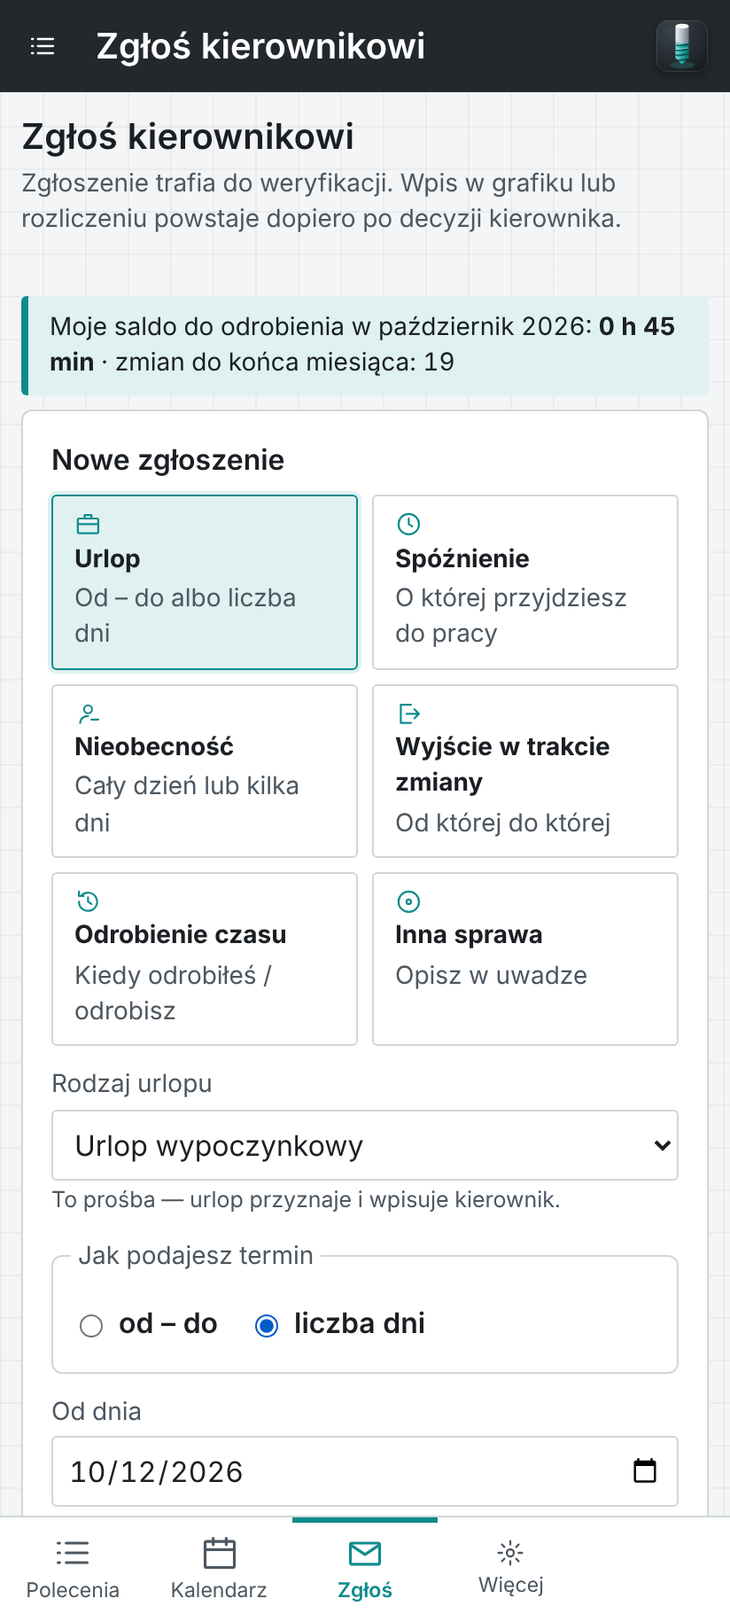
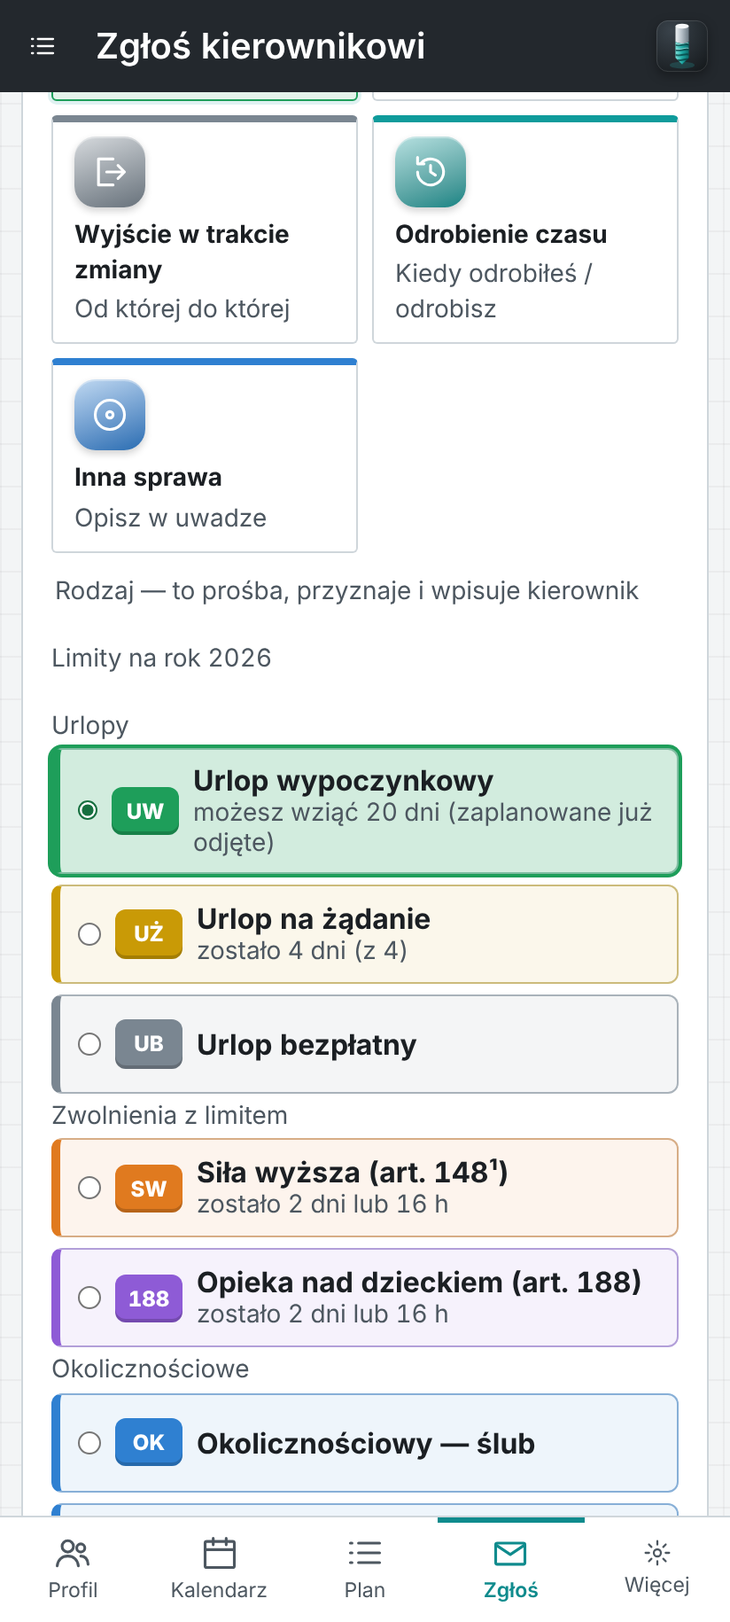
Programista: menu od profilu; prośba o urlop / zwolnienie ze wszystkimi rodzajami, limitami i kolorami (0.16.3)
Claude-Session: https://claude.ai/code/session_01Mgo9RDb6yKEqWF3PSmGbbJ

Changed region(s): [[0.0303, 0.0623, 0.9709, 0.9967], [0.9102, 0.8098, 0.9405, 0.841], [0.9102, 0.5918, 0.9405, 0.623]]

diff --git a/public/views-requests.js b/public/views-requests.js
@@ -2,7 +2,7 @@
 'use strict';
 
 const REQ_KIND = {
-  urlop: ['Urlop', 'leave', 'Od – do albo liczba dni'],
+  urlop: ['Urlop / zwolnienie', 'leave', 'Wszystkie rodzaje — od – do albo liczba dni'],
   spoznienie: ['Spóźnienie', 'today', 'O której przyjdziesz do pracy'],
   nieobecnosc: ['Nieobecność', 'absence', 'Cały dzień lub kilka dni'],
   wyjscie: ['Wyjście w trakcie zmiany', 'exit', 'Od której do której'],
@@ -14,11 +14,18 @@ const WANTED_LABEL = { URLOP_WYP: 'Urlop wypoczynkowy', URLOP_NA_ZADANIE: 'Urlop
   OPIEKA_188: 'Opieka nad dzieckiem (art. 188)', SILA_WYZSZA: 'Siła wyższa (art. 148¹)', OKOL_SLUB: 'Okolicznościowy — ślub', OKOL_NARODZINY: 'Okolicznościowy — narodziny dziecka',
   OKOL_ZGON_BLISKI: 'Okolicznościowy — zgon osoby bliskiej', OKOL_SLUB_DZIECKA: 'Okolicznościowy — ślub dziecka', OKOL_ZGON_DALSZY: 'Okolicznościowy — zgon dalszej rodziny',
   BEZPLATNY: 'Urlop bezpłatny', KREW: 'Oddawanie krwi', BADANIA_PROFIL: 'Badania profilaktyczne', SZKOLENIOWY: 'Szkolenie', WEZWANIE: 'Wezwanie (sąd, urząd)', WOJSKO: 'Obowiązki wojskowe', INNE_USTAWOWE: 'Inne zwolnienie ustawowe' };
-// rodzaj urlopu jako kolorowa plakietka (te same kolory co w kalendarzu urlopów)
+// skrót, kolor i możliwość godzin dla każdego rodzaju — stałe (programista nie dostaje pełnej listy kategorii z serwera)
+const LEAVE_META = {
+  URLOP_WYP: ['UW', 'uw'], URLOP_NA_ZADANIE: ['UŻ', 'uz'], BEZPLATNY: ['UB', 'unpaid'], SILA_WYZSZA: ['SW', 'force', 'b'], OPIEKA_188: ['188', 'care', 'b'],
+  OKOL_SLUB: ['OK', 'event'], OKOL_NARODZINY: ['OK', 'event'], OKOL_ZGON_BLISKI: ['OK', 'event'], OKOL_SLUB_DZIECKA: ['OK', 'event'], OKOL_ZGON_DALSZY: ['OK', 'event'],
+  L4: ['L4', 'l4'], OPIEKA_ZUS: ['OP', 'care'], KREW: ['KR', 'event'], BADANIA_PROFIL: ['BP', 'l4', 'h'], SZKOLENIOWY: ['SZ', 'train', 'b'], WEZWANIE: ['WZ', 'other', 'h'],
+  WOJSKO: ['WO', 'other'], INNE_USTAWOWE: ['IZ', 'other', 'b'],
+};
+const leaveTone = (code) => (LEAVE_META[code] ? LEAVE_META[code][1] : 'other');
+// rodzaj urlopu jako kolorowa plakietka (te same kolory co w kalendarzu urlopów i w profilu)
 function leaveChip(code) {
   if (!code) return '';
-  const c = (S.boot.categories || []).find(x => x.code === code);
-  return `<span class="leave-chip tone-${absTone(c ? c.icon : 'other', code)}">${esc(WANTED_LABEL[code] || (c && c.name) || code)}</span>`;
+  return `<span class="leave-chip tone-${leaveTone(code)}">${esc(WANTED_LABEL[code] || code)}</span>`;
 }
 const REQ_STATUS = { nowe: ['czeka na decyzję', 'warn'], przyjete: ['przyjęte', 'ok'], odrzucone: ['odrzucone', 'danger'], wycofane: ['wycofane', ''] };
 
@@ -47,29 +54,90 @@ function reqWhen(r) {
   return `${d}${r.time_from ? ` · ${esc(r.time_from)}–${esc(r.time_to || '')}` : ''}`;
 }
 
+// Kafelki zgłoszeń: kolor jak w kalendarzu (urlop zielony, spóźnienie — brązowy, wyjście szare, odrabianie turkusowe)
+const REQ_TILES = [['urlop', 'uw'], ['spoznienie', 'late'], ['wyjscie', 'unpaid'], ['odrobienie', 'train'], ['inne', 'event']];
+// Rodzaje w prośbie o urlop / zwolnienie — pogrupowane; kolory jak w zestawieniu w profilu
+const LEAVE_GROUPS = [
+  ['Urlopy', ['URLOP_WYP', 'URLOP_NA_ZADANIE', 'BEZPLATNY']],
+  ['Zwolnienia z limitem', ['SILA_WYZSZA', 'OPIEKA_188']],
+  ['Okolicznościowe', ['OKOL_SLUB', 'OKOL_NARODZINY', 'OKOL_ZGON_BLISKI', 'OKOL_SLUB_DZIECKA', 'OKOL_ZGON_DALSZY']],
+  ['Inne nieobecności', ['L4', 'OPIEKA_ZUS', 'KREW', 'BADANIA_PROFIL', 'SZKOLENIOWY', 'WEZWANIE', 'WOJSKO', 'INNE_USTAWOWE']],
+];
+// Ile zostało z puli danego rodzaju (z zestawienia w profilu); null = bez limitu w aplikacji
+function leaveLeft(code, sum) {
+  if (!sum) return null;
+  const dm = sum.day_min || 480;
+  const L = sum.leave;
+  const uwLeft = L && L.has_pool ? Math.floor(((L.remaining_min || 0) - (L.planned_min || 0)) / dm) : null;
+  const hTxt = (h) => `${String(Math.round(h * 10) / 10).replace('.', ',')} h`;
+  const unitLeft = (u) => {
+    if (!u) return null;
+    const usedDays = (u.used_days || 0) + (u.planned_days || 0), usedMin = (u.used_min || 0) + (u.planned_min || 0);
+    if (u.unit === 'godziny') { const h = Math.max(0, ((u.limit_min || 0) - usedMin) / 60); return { days: null, hours: Math.round(h * 10) / 10, text: `zostało ${hTxt(h)}`, empty: h <= 0 }; }
+    if (u.unit === 'dni') { const d = Math.max(0, (u.limit_days || 0) - usedDays); return { days: d, hours: null, text: `zostało ${daysTxt(d)}`, empty: d <= 0 }; }
+    // jednostka jeszcze nieustalona: zaplanowane dni i godziny pomniejszają obie pule (dzień = norma dnia)
+    const d = Math.max(0, (u.limit_days || 0) - usedDays - Math.ceil(usedMin / dm));
+    const h = Math.max(0, ((u.limit_min || 0) - usedMin - usedDays * dm) / 60);
+    return { days: d, hours: Math.round(h * 10) / 10, text: `zostało ${daysTxt(d)} lub ${hTxt(h)}`, empty: d <= 0 && h <= 0 };
+  };
+  if (code === 'URLOP_WYP') return uwLeft === null ? { days: null, text: 'wymiar ustala kierownik', empty: false } : { days: Math.max(0, uwLeft), text: `możesz wziąć ${daysTxt(Math.max(0, uwLeft))}${L.planned_min ? ' (zaplanowane już odjęte)' : ''}`, empty: uwLeft <= 0 };
+  if (code === 'URLOP_NA_ZADANIE') {
+    const od = sum.on_demand || { limit_days: 4, used_days: 0, planned_days: 0 };
+    let d = Math.max(0, od.limit_days - od.used_days - (od.planned_days || 0));
+    if (uwLeft !== null) d = Math.min(d, Math.max(0, uwLeft));
+    return { days: d, text: `zostało ${daysTxt(d)} (z ${od.limit_days})`, empty: d <= 0 };
+  }
+  if (code === 'SILA_WYZSZA') return unitLeft(sum.force);
+  if (code === 'OPIEKA_188') return unitLeft(sum.care188);
+  return null;
+}
+// dozwolone sposoby podania terminu: dni (od – do / liczba dni) i godziny — wg jednostki kategorii;
+// SW i art. 188: po pierwszym użyciu w roku jednostka jest ustalona (dni albo godziny)
+function leaveModes(code, sum) {
+  const base = LEAVE_META[code] ? LEAVE_META[code][2] : undefined;
+  let days = base !== 'h', hours = base === 'h' || base === 'b';
+  const u = code === 'SILA_WYZSZA' ? sum && sum.force : code === 'OPIEKA_188' ? sum && sum.care188 : null;
+  if (u && u.unit === 'dni') { days = true; hours = false; }
+  if (u && u.unit === 'godziny') { days = false; hours = true; }
+  return { days, hours };
+}
+
 // ---------- Pracownik: „Zgłoś” ----------
 VIEWS.zglos = async (main) => {
-  const [list, bal] = await Promise.all([api('/requests'), api(`/balances?month=${S.me.today.slice(0, 7)}`).catch(() => [])]);
+  const year = Number(S.me.today.slice(0, 4));
+  const [list, bal, sums] = await Promise.all([api('/requests'), api(`/balances?month=${S.me.today.slice(0, 7)}`).catch(() => []), api(`/leave/summary?year=${year}`).catch(() => [])]);
   const mine = bal.find(b => b.employee_id === S.me.employee_id);
+  let sum = sums.find(x => x.employee_id === S.me.employee_id) || sums[0] || null;
+  let sumYear = year;
+  const sumCache = new Map([[year, sum]]);
+  const leaveCards = () => `<p class="small muted lv-year">Limity na rok ${sumYear}</p>${LEAVE_GROUPS.map(([g, codes]) => `<div class="lv-group"><span class="small muted">${esc(g)}</span><div class="lv-grid">${codes.map(leaveCard).join('')}</div></div>`).join('')}`;
+  const leaveCard = (code) => {
+    const left = leaveLeft(code, sum);
+    const dis = left && left.empty;
+    return `<label class="lv-opt tone-${leaveTone(code)} ${dis ? 'off' : ''}">
+      <input type="radio" name="leave_code" value="${esc(code)}" ${dis ? 'disabled' : ''} ${code === 'URLOP_WYP' && !dis ? 'checked' : ''}>
+      <span class="lc-badge">${esc(LEAVE_META[code] ? LEAVE_META[code][0] : '•')}</span><span class="lv-txt"><b>${esc(WANTED_LABEL[code] || code)}</b>${left ? `<span class="small">${dis ? 'wykorzystany — niedostępny' : esc(left.text)}</span>` : ''}</span></label>`;
+  };
   main.innerHTML = head('Zgłoś kierownikowi', 'Zgłoszenie trafia do weryfikacji. Wpis w grafiku lub rozliczeniu powstaje dopiero po decyzji kierownika.') +
     (mine ? `<p class="notice info small">Moje saldo do odrobienia w ${plMonth(S.me.today.slice(0, 7))}: <b>${hm(mine.remaining_min)}</b> · zmian do końca miesiąca: ${mine.remaining_shifts}</p>` : '') + `
     <div class="cols-2"><section class="panel"><h3>Nowe zgłoszenie</h3>
-      <div class="kind-pick" role="radiogroup" aria-label="Rodzaj zgłoszenia">${Object.entries(REQ_KIND).map(([k, [l, ic, hint]]) =>
-        `<button type="button" class="kind" data-kind="${k}" role="radio" aria-checked="false">${icon(ic)}<b>${esc(l)}</b><span class="small muted">${esc(hint)}</span></button>`).join('')}</div>
-      <form id="reqF" class="form-grid" hidden>
-        <label class="field wide" data-show="urlop">Rodzaj urlopu<select name="leave_code">${LEAVE_CODES.map(k => `<option value="${k}">${esc(WANTED_LABEL[k])}</option>`).join('')}</select>
-          <span class="help">To prośba — urlop przyznaje i wpisuje kierownik.</span></label>
+      <div class="kind-pick" role="radiogroup" aria-label="Rodzaj zgłoszenia">${REQ_TILES.map(([k, tone]) => { const [l, ic, hint] = REQ_KIND[k];
+        return `<button type="button" class="kind tone-${tone}" data-kind="${k}" role="radio" aria-checked="false"><span class="kind-ico">${icon(ic)}</span><b>${esc(l)}</b><span class="small muted">${esc(hint)}</span></button>`; }).join('')}</div>
+      <form id="reqF" class="form-grid" novalidate hidden>
+        <fieldset class="field wide lv-pick" data-show="urlop"><legend>Rodzaj — to prośba, przyznaje i wpisuje kierownik</legend>
+          <div class="lv-cards">${leaveCards()}</div></fieldset>
         <fieldset class="field wide seg" data-show="urlop"><legend>Jak podajesz termin</legend>
           <label class="inline"><input type="radio" name="lmode" value="od" checked> od – do</label>
-          <label class="inline"><input type="radio" name="lmode" value="dni"> liczba dni</label></fieldset>
+          <label class="inline"><input type="radio" name="lmode" value="dni"> liczba dni</label>
+          <label class="inline" data-hourly><input type="radio" name="lmode" value="godz"> godziny</label></fieldset>
         <label class="field"><span data-dlbl>Dzień</span><input type="date" name="date_from" required value="${S.me.today}"></label>
         <label class="field" data-show="nieobecnosc urlop" data-lm="od"><span data-tlbl>Do dnia (opcjonalnie)</span><input type="date" name="date_to"></label>
         <label class="field" data-show="urlop" data-lm="dni">Liczba dni roboczych<input type="number" name="days" min="1" max="40" step="1" inputmode="numeric" placeholder="np. 5"></label>
         <p class="wide small leave-sum" data-show="urlop" aria-live="polite"></p>
         <label class="field wide" data-show="nieobecnosc">O jaki rodzaj prosisz<select name="wanted_code"><option value="">— nie wiem / opiszę w uwadze —</option>${Object.entries(WANTED_LABEL).map(([k, l]) => `<option value="${k}">${esc(l)}</option>`).join('')}</select>
           <span class="help">Zaznaczasz tylko prośbę — urlop przyznaje i wpisuje kierownik.</span></label>
-        <label class="field" data-show="wyjscie odrobienie nieobecnosc inne">Od godz.<input type="time" name="time_from"></label>
-        <label class="field" data-show="spoznienie wyjscie odrobienie nieobecnosc inne"><span data-lbl>Do godz.</span><input type="time" name="time_to"></label>
+        <label class="field" data-show="wyjscie odrobienie nieobecnosc inne urlop" data-lmh>Od godz.<input type="time" name="time_from"></label>
+        <label class="field" data-show="spoznienie wyjscie odrobienie nieobecnosc inne urlop" data-lmh><span data-lbl>Do godz.</span><input type="time" name="time_to"></label>
         <label class="field wide">Uwaga dla kierownika<textarea name="note" maxlength="500" rows="3" placeholder="Np. powód. Bez danych medycznych."></textarea></label>
         <div class="wide toolbar"><button class="primary" type="submit">${icon('check')}Wyślij do weryfikacji</button></div>
         <div class="form-error wide" role="alert"></div>
@@ -98,16 +166,52 @@ VIEWS.zglos = async (main) => {
     const hol = new Set((S.boot.holidays || []).map(h => h.date));
     for (let g = 0; g < 14 && (weekday(from) > 5 || hol.has(from)); g++) from = addDays(from, 1); // urlop zaczyna się w pierwszym dniu roboczym
     const mode = (f.querySelector('input[name=lmode]:checked') || {}).value || 'od';
+    if (mode === 'godz') {
+      const a = f.time_from.value, b = f.time_to.value;
+      if (!a || !b) return null;
+      const [ah, am] = a.split(':').map(Number), [bh, bm] = b.split(':').map(Number);
+      let min = (bh * 60 + bm) - (ah * 60 + am); if (min < 0) min += 1440;
+      if (min === 0 || min > 16 * 60) return null; // 0 h albo ponad 16 h — popraw godziny
+      return { from, to: from, days: 0, hours: Math.round(min / 6) / 10, hourly: true };
+    }
     if (mode === 'dni') { const n = Math.floor(Number(f.days.value)); return n >= 1 ? { from, to: endAfterWorkdays(from, n), days: n } : null; }
     const to = f.date_to.value || from;
     return to >= from ? { from, to, days: workdaysIn(from, to) } : null;
   };
+  const chosen = () => (f.querySelector('input[name=leave_code]:checked') || {}).value || '';
+  // ponad pozostałą pulę nie da się wysłać (kierownik i tak sprawdza limity przy wpisie)
+  const overLimit = (r) => {
+    const left = leaveLeft(chosen(), sum);
+    if (!left || !r) return '';
+    if (r.hourly) return left.hours !== null && left.hours !== undefined && r.hours > left.hours ? `Zostało tylko ${String(left.hours).replace('.', ',')} h.` : left.hours === null ? 'Ten rodzaj rozliczasz w dniach.' : '';
+    if (left.days === null && left.hours !== null && left.hours !== undefined) return 'Ten rodzaj rozliczasz w godzinach.';
+    return left.days !== null && left.days !== undefined && r.days > left.days ? `Zostało tylko ${daysTxt(left.days)} — zmniejsz liczbę dni.` : '';
+  };
   function leaveSync() {
     if (kind !== 'urlop') return;
+    // limity na rok, w którym zaczyna się urlop (wniosek może dotyczyć przyszłego roku)
+    const y = Number((f.date_from.value || S.me.today).slice(0, 4));
+    if (y !== sumYear) {
+      sumYear = y;
+      const draw = () => { const keep = chosen(); $('.lv-cards', f).innerHTML = leaveCards(); const el = keep && f.querySelector(`input[name=leave_code][value="${keep}"]:not([disabled])`); if (el) el.checked = true; leaveSync(); };
+      if (sumCache.has(y)) { sum = sumCache.get(y); draw(); return; }
+      sum = null; draw();
+      api(`/leave/summary?year=${y}`).then(list => { const x = list.find(e => e.employee_id === S.me.employee_id) || list[0] || null; sumCache.set(y, x); if (sumYear === y) { sum = x; draw(); } }).catch(() => sumCache.set(y, null));
+      return;
+    }
+    const md = leaveModes(chosen(), sum);
+    const set = (v, show) => { const el = f.querySelector(`input[name=lmode][value=${v}]`); el.closest('label').classList.toggle('hidden', !show); if (!show && el.checked) el.checked = false; };
+    set('od', md.days); set('dni', md.days); set('godz', md.hours);
+    if (!f.querySelector('input[name=lmode]:checked')) f.querySelector(`input[name=lmode][value=${md.days ? 'od' : 'godz'}]`).checked = true;
     const mode = (f.querySelector('input[name=lmode]:checked') || {}).value || 'od';
     $$('[data-lm]', f).forEach(el => el.classList.toggle('hidden', el.dataset.lm !== mode || !el.dataset.show.split(' ').includes(kind)));
-    const r = leaveRange();
-    $('.leave-sum', f).innerHTML = r ? `Urlop: <b>${plDate(r.from)} – ${plDate(r.to)}</b> · <b>${r.days}</b> ${r.days === 1 ? 'dzień roboczy' : 'dni roboczych'} (bez weekendów i świąt)` : '<span class="muted">Podaj termin.</span>';
+    $$('[data-lmh]', f).forEach(el => el.classList.toggle('hidden', mode !== 'godz'));
+    const left = leaveLeft(chosen(), sum);
+    if (f.days) f.days.max = left && left.days ? String(left.days) : '40';
+    const r = leaveRange(); const over = overLimit(r);
+    $('.leave-sum', f).classList.toggle('bad', !!over);
+    $('.leave-sum', f).innerHTML = !r ? '<span class="muted">Podaj termin.</span>'
+      : `${r.hourly ? `<b>${plDate(r.from)}</b> · <b>${String(r.hours).replace('.', ',')} h</b>` : `<b>${plDate(r.from)} – ${plDate(r.to)}</b> · <b>${r.days}</b> ${r.days === 1 ? 'dzień roboczy' : 'dni roboczych'} (bez weekendów i świąt)`}${over ? ` — ${esc(over)}` : ''}`;
   }
   f.addEventListener('input', leaveSync); f.addEventListener('change', leaveSync);
   f.onsubmit = async (e) => {
@@ -118,11 +222,14 @@ VIEWS.zglos = async (main) => {
     let sendKind = kind;
     if (kind === 'urlop') {
       const r = leaveRange();
-      if (!r) { $('.form-error', f).textContent = 'Podaj termin urlopu: od – do albo liczbę dni.'; btn.disabled = false; return; }
-      if (r.days < 1) { $('.form-error', f).textContent = 'W tym terminie nie ma dni roboczych.'; btn.disabled = false; return; }
-      sendKind = 'nieobecnosc'; v.date_from = r.from; v.date_to = r.to; v.wanted_code = leaveCode || 'URLOP_WYP';
-      delete v.time_from; delete v.time_to;
-      const prefix = `Urlop: ${r.days} ${r.days === 1 ? 'dzień roboczy' : 'dni roboczych'}`;
+      const fail = (m) => { $('.form-error', f).textContent = m; btn.disabled = false; };
+      if (!leaveCode) return fail('Wybierz rodzaj.');
+      if (!r) return fail('Podaj termin: od – do, liczbę dni albo godziny (od – do, najwyżej 16 h).');
+      if (!r.hourly && r.days < 1) return fail('W tym terminie nie ma dni roboczych.');
+      const over = overLimit(r); if (over) return fail(over);
+      sendKind = 'nieobecnosc'; v.date_from = r.from; v.date_to = r.to; v.wanted_code = leaveCode;
+      if (!r.hourly) { delete v.time_from; delete v.time_to; }
+      const prefix = r.hourly ? `${WANTED_LABEL[leaveCode] || ''}: ${String(r.hours).replace('.', ',')} h` : `${WANTED_LABEL[leaveCode] || 'Urlop'}: ${r.days} ${r.days === 1 ? 'dzień roboczy' : 'dni roboczych'}`;
       v.note = v.note ? `${prefix}. ${v.note}`.slice(0, 500) : prefix;
     }
     void lmode; void days;

diff --git a/public/app.js b/public/app.js
@@ -28,6 +28,9 @@ const NAV = [
 ];
 // Programista: zgłoszenia, kalendarz, plan pracy, wykaz narzędzi (tylko podgląd) i własne konto — reszta dla kierownika
 const EMP_ROUTES = new Set(['plan', 'kalendarz', 'zglos', 'pracownicy', 'narzedzia', 'ustawienia']);
+// Kolejność menu programisty: Mój profil, Kalendarz, Plan pracy, Zgłoś kierownikowi, Narzędzia i oprawki, Moje konto
+const EMP_ORDER = ['pracownicy', 'kalendarz', 'plan', 'zglos', 'narzedzia', 'ustawienia'];
+const navLabel = (id, label) => (id === 'ustawienia' && !isAdmin() ? 'Moje konto' : id === 'pracownicy' && isEmployee() ? 'Mój profil' : label);
 
 // Nie w menu bocznym: urlopy i wyjścia są zakładkami w „Pracownicy”; tablica maszyn powielała Centrum programowania.
 const RAIL_HIDDEN = new Set(['wyjscia', 'absencje', 'maszyny', 'zdarzenia']);
@@ -170,16 +173,17 @@ function renderLogin() {
 function renderShell() {
   const roleName = { admin: 'Administrator', supervisor: 'Przełożony', employee: 'Pracownik', guest: 'Gość' }[S.me.role];
   const tabs = isGuest() ? [['status', 'Status', 'project']]
-    : isEmployee() ? [['plan', 'Polecenia', 'list'], ['kalendarz', 'Kalendarz', 'calendar'], ['zglos', 'Zgłoś', 'summons']]
+    : isEmployee() ? [['pracownicy', 'Profil', 'users'], ['kalendarz', 'Kalendarz', 'calendar'], ['plan', 'Plan', 'list'], ['zglos', 'Zgłoś', 'summons']]
       : [['dzisiaj', 'Dzisiaj', 'today'], ['plan', 'Plan pracy', 'list'], ['kalendarz', 'Kalendarz', 'calendar'], ['projekty', 'Projekty', 'project']];
-  const nav = isGuest() ? [['status', 'Status projektów', 'project', null], ['ustawienia', 'Moje konto', 'settings', null]] : NAV.filter(n => !RAIL_HIDDEN.has(n[0]) && (typeof n[3] === 'function' ? n[3]() : (!n[3] || can(n[3]))));
+  let nav = isGuest() ? [['status', 'Status projektów', 'project', null], ['ustawienia', 'Moje konto', 'settings', null]] : NAV.filter(n => !RAIL_HIDDEN.has(n[0]) && (typeof n[3] === 'function' ? n[3]() : (!n[3] || can(n[3]))));
+  if (isEmployee()) nav = EMP_ORDER.map(id => nav.find(n => n[0] === id)).filter(Boolean);
   $('#app').innerHTML = `<div class="shell">
     <header class="appbar"><button type="button" class="appbar-menu" id="menuBtn" aria-label="Otwórz menu" aria-expanded="false" aria-controls="rail">${icon('list')}</button>
       <span class="appbar-title" id="appbarTitle">CNC Team</span>${appLogo(30)}</header>
     <div class="scrim" id="scrim" hidden></div>
     <nav class="rail" id="rail" aria-label="Menu główne">
     <div class="brand">${appLogo(40)}<div>CNC Team<small>${esc(S.boot.settings.company_name || '')}</small></div></div>
-    ${nav.map(([id, label, ic]) => `<a href="#/${id}" data-nav="${id}">${icon(ic)}<span>${esc(id === 'ustawienia' && !isAdmin() ? 'Moje konto' : id === 'pracownicy' && isEmployee() ? 'Mój profil i urlopy' : label)}</span></a>`).join('')}
+    ${nav.map(([id, label, ic]) => `<a href="#/${id}" data-nav="${id}">${icon(ic)}<span>${esc(navLabel(id, label))}</span></a>`).join('')}
     <div class="who"><strong>${esc(S.me.display_name)}</strong>${esc(roleName)}<br>
       <button type="button" id="themeBtn" class="link">${icon('theme')}Motyw</button>
       <button type="button" id="installBtn" class="link ${document.documentElement.dataset.installable ? '' : 'mobile-only'}">${icon('download')}Skrót na telefonie</button>
@@ -213,7 +217,7 @@ async function route() {
   if (isEmployee() && !EMP_ROUTES.has(name)) name = 'plan';
   $$('[data-nav]').forEach(a => a.classList.toggle('active', a.dataset.nav === (NAV_PARENT[name] || name)));
   const navItem = isGuest() ? (name === 'status' ? ['status', 'Status projektów'] : ['ustawienia', 'Moje konto']) : NAV.find(n => n[0] === name);
-  if ($('#appbarTitle')) $('#appbarTitle').textContent = navItem ? navItem[1] : 'CNC Team';
+  if ($('#appbarTitle')) $('#appbarTitle').textContent = navItem ? navLabel(navItem[0], navItem[1]) : 'CNC Team';
   const main = $('#main');
   main.innerHTML = '<p class="muted">Wczytywanie…</p>';
   try { await (VIEWS[name] || VIEWS.dzisiaj)(main, rest); } catch (e) {
@@ -381,7 +385,7 @@ VIEWS.kalendarz = async (main) => {
      <label class="field">Osoba<select id="calEmp"><option value="">wszyscy</option>${empOptions().map(([v, l]) => `<option value="${v}" ${String(v) === empF ? 'selected' : ''}>${esc(l)}</option>`).join('')}</select></label>
      ${isAdmin() ? btn('addShift', 'Zmiana w grafiku') + btn('extraShift', 'Dzień dodatkowy / nadgodziny', 'plus', '') + btn('bulkMode', 'Zmiana trybu pracy', 'calendar', '') + btn('genShift', 'Generuj grafik', 'calendar', '') : ''}`) +
     `<h2>${esc(title)}</h2><div class="cal ${mode === 'tydzien' ? 'week' : ''}">${cells}</div>
-     <p class="small muted">Legenda: na górze każdego dnia — oba tematy: co idzie na Hartford i na Grimme. Pełne tło ze zmianami I / II / III — praca tego dnia (z wpisów czasu pracy); przerywana ramka — projekt w toku bez wpisów tego dnia albo obecnie na maszynie (dziś i dalej, z karty maszyny); ${icon('spindle')} zmiana z grafiku (inicjały i kolor pracownika); za godzinami zmiany — co zmieniło dzień tej osoby (godziny zmiany przekreślone przy nieobecności) — kolor wg rodzaju: <span class="leave-legend"><span class="ev-tag tone-uw">UW</span> urlop wypoczynkowy <span class="ev-tag tone-uz">UŻ</span> na żądanie <span class="ev-tag tone-l4">L4</span> chorobowe <span class="ev-tag tone-care">OP</span> opieka <span class="ev-tag tone-force">SW</span> siła wyższa <span class="ev-tag tone-family">UR</span> rodzicielski <span class="ev-tag tone-event">OK</span> okolicznościowy <span class="ev-tag tone-train">SZ</span> szkolenie <span class="ev-tag tone-other">•</span> inna nieobecność <span class="ev-tag tone-unpaid">WP</span> wyjście prywatne <span class="ev-tag tone-train">OD</span> odrabianie <span class="ev-tag tone-event">PZ</span> przekazanie zmiany.</span> <span class="mode-badge dod">DOD</span> dzień dodatkowy / nadgodziny (pole kreskowane), <span class="mode-badge">12h</span> zmiana wydłużona, <span class="mode-badge">NR</span> czas nieregularny. Wpis osoby bez zmiany w tym dniu — osobny kafelek z ikoną. Zmiana nocna należy do dnia rozpoczęcia.</p>`;
+     <p class="small muted">Legenda: na górze każdego dnia — oba tematy: co idzie na Hartford i na Grimme. Pełne tło ze zmianami I / II / III — praca tego dnia (z wpisów czasu pracy); przerywana ramka — projekt w toku bez wpisów tego dnia albo obecnie na maszynie (dziś i dalej, z karty maszyny); ${icon('spindle')} zmiana z grafiku (inicjały i kolor pracownika); za godzinami zmiany — co zmieniło dzień tej osoby (godziny zmiany przekreślone przy nieobecności) — kolor wg rodzaju: <span class="leave-legend"><span class="ev-tag tone-uw">UW</span> urlop wypoczynkowy <span class="ev-tag tone-uz">UŻ</span> na żądanie <span class="ev-tag tone-l4">L4</span> chorobowe <span class="ev-tag tone-care">OP</span> opieka <span class="ev-tag tone-force">SW</span> siła wyższa <span class="ev-tag tone-family">UR</span> rodzicielski <span class="ev-tag tone-event">OK</span> okolicznościowy <span class="ev-tag tone-train">SZ</span> szkolenie <span class="ev-tag tone-late">SPU</span> spóźnienie <span class="ev-tag tone-other">•</span> inna nieobecność <span class="ev-tag tone-unpaid">WP</span> wyjście prywatne <span class="ev-tag tone-train">OD</span> odrabianie <span class="ev-tag tone-event">PZ</span> przekazanie zmiany.</span> <span class="mode-badge dod">DOD</span> dzień dodatkowy / nadgodziny (pole kreskowane), <span class="mode-badge">12h</span> zmiana wydłużona, <span class="mode-badge">NR</span> czas nieregularny. Wpis osoby bez zmiany w tym dniu — osobny kafelek z ikoną. Zmiana nocna należy do dnia rozpoczęcia.</p>`;
   $('#calEmp').onchange = (e) => { location.hash = link({ osoba: e.target.value }); };
   $('#calView').onchange = (e) => { location.hash = link({ widok: e.target.value }); };
   on('addShift', () => shiftForm(anchor));

diff --git a/public/views-people.js b/public/views-people.js
@@ -13,13 +13,13 @@ VIEWS.pracownicy = async (main) => {
   // programista: jego prośby o urlop czekające na decyzję kierownika
   const pendingReq = isEmployee() ? (await api('/requests').catch(() => [])).filter(r => r.kind === 'nieobecnosc' && r.status === 'nowe') : [];
   const yearNav = leave.length ? `<span class="lc-yearnav"><span class="muted small">Urlopy</span><a class="btn" href="#/pracownicy?rok=${year - 1}" aria-label="Poprzedni rok">‹</a><span class="btn lc-year">${year}</span><a class="btn" href="#/pracownicy?rok=${year + 1}" aria-label="Następny rok">›</a></span>` : '';
-  main.innerHTML = peopleTabs('pracownicy') + head(isEmployee() ? 'Mój profil i urlopy' : 'Pracownicy', isEmployee() ? 'Saldo do odrobienia oraz ile urlopu wykorzystałeś i ile zostało. Urlop wpisuje kierownik — o urlop poproś w „Zgłoś kierownikowi” (nieobecność).' : 'Przy każdym pracowniku: saldo do odrobienia, urlopy i nieobecności w roku.', yearNav + (isAdmin() ? btn('addEmp', 'Dodaj pracownika') : '')) +
+  main.innerHTML = peopleTabs('pracownicy') + head(isEmployee() ? 'Mój profil' : 'Pracownicy', isEmployee() ? 'Saldo do odrobienia oraz ile urlopu wykorzystałeś i ile zostało. Urlop wpisuje kierownik — o urlop poproś w „Zgłoś kierownikowi” → Urlop.' : 'Przy każdym pracowniku: saldo do odrobienia, urlopy i nieobecności w roku.', yearNav + (isAdmin() ? btn('addEmp', 'Dodaj pracownika') : '')) +
     `<div class="cols">${emps.map(e => {
       const t = e.current_terms; const b = balances.find(x => x.employee_id === e.id);
       return `<section class="panel"><div class="page-head" style="margin:0 0 var(--sp-2)"><h3>${person(e.id)}</h3>${e.active ? tag('aktywny', 'ok') : tag('nieaktywny')}</div>
         <div class="emp-balance ${b && b.remaining_min > 0 ? 'due' : ''}"><span>Saldo do odrobienia</span><b>${b ? hm(b.remaining_min) : '0:00'}</b><span class="small muted">${b && b.remaining_min > 0 ? 'do odrobienia w tym miesiącu' : 'nic do odrobienia'}</span></div>
         ${leaveBy.has(e.id) ? `<div class="lc-emp"><h4>Urlopy i nieobecności ${year}</h4>${leaveRows(leaveBy.get(e.id), year)}</div>` : ''}
-        ${isEmployee() ? `<div class="lc-emp"><h4>Moje prośby czekające na akceptację</h4>${pendingReq.length ? `<ul class="plain">${pendingReq.map(r => `<li>${tag('czeka na kierownika', 'warn')} ${r.wanted_code ? leaveChip(r.wanted_code) : '<b>Nieobecność</b>'} · ${reqWhen(r)}</li>`).join('')}</ul>` : '<p class="small muted">Brak. Urlop zaznaczasz w „Zgłoś kierownikowi” → Nieobecność; przyznaje go i wpisuje kierownik.</p>'}
+        ${isEmployee() ? `<div class="lc-emp"><h4>Moje prośby czekające na akceptację</h4>${pendingReq.length ? `<ul class="plain">${pendingReq.map(r => `<li>${tag('czeka na kierownika', 'warn')} ${r.wanted_code ? leaveChip(r.wanted_code) : '<b>Nieobecność</b>'} · ${reqWhen(r)}</li>`).join('')}</ul>` : '<p class="small muted">Brak. Urlop zaznaczasz w „Zgłoś kierownikowi” → Urlop; przyznaje go i wpisuje kierownik.</p>'}
           <p><a class="btn" href="#/zglos">${icon('summons')}Poproś o urlop / nieobecność</a></p></div>` : ''}
         ${isAdmin() ? `<div class="toolbar" style="margin-top:var(--sp-3)"><button data-edit="${e.id}">Edytuj</button><button data-terms="${e.id}">Zmiana etatu</button>${!e.initial_settlement_approved_at ? `<button data-approve="${e.id}">Zatwierdź dane początkowe</button>` : ''}</div>` : ''}
       </section>`;
@@ -250,7 +250,7 @@ VIEWS.absencje = async (main) => {
 // ---------- Kalendarz urlopów: kafelki dni z nieobecnościami, pod spodem karty programistów z wykorzystaniem ----------
 // Kolor kategorii według rodzaju (ikony) — ten sam w kalendarzu i na kartach
 const ABS_TONE = { leave: 'uw', medical: 'l4', care: 'care', force: 'force', family: 'family', event: 'event', unpaid: 'unpaid', training: 'train', blood: 'event', summons: 'other', military: 'other', exit: 'other', other: 'other', absence: 'other' };
-const absTone = (icon, code) => (code === 'URLOP_NA_ZADANIE' || code === 'UŻ' ? 'uz' : code === 'SILA_WYZSZA' || code === 'SW' ? 'force' : ABS_TONE[icon] || 'other');
+const absTone = (icon, code) => (code === 'URLOP_NA_ZADANIE' || code === 'UŻ' ? 'uz' : code === 'SILA_WYZSZA' || code === 'SW' ? 'force' : /^SPOZNIENIE|^SP[UN]$/.test(code || '') ? 'late' : ABS_TONE[icon] || 'other');
 const daysTxt = (d) => `${Number(d.toFixed ? d.toFixed(1) : d).toString().replace('.', ',')} ${Math.abs(d) === 1 ? 'dzień' : 'dni'}`;
 const minAsDays = (min, dayMin) => (dayMin ? daysTxt(Math.round((min / dayMin) * 10) / 10) : hShort(min));
 
@@ -322,7 +322,7 @@ function leaveRows(e, year) {
     ${row('uz', 'UŻ', 'Urlop na żądanie', `wykorzystano ${daysTxt(e.on_demand.used_days)}${e.on_demand.planned_days ? ` · zaplanowano ${daysTxt(e.on_demand.planned_days)}` : ''}`, `zostało ${daysTxt(uzLeft)}`, `z ${e.on_demand.limit_days} (w ramach UW)`, undefined)}
     ${unitRow(e.force, 'SW', 'Siła wyższa (art. 148¹)')}
     ${unitRow(e.care188, '188', 'Opieka nad dzieckiem (art. 188)')}
-    ${e.other.map(o => row(absTone(o.icon, ''), o.short || '•', o.name, `${o.used_days || o.used_min ? `wykorzystano ${dh(o.used_days, o.used_min)}` : 'tylko zaplanowane'}${o.planned_days || o.planned_min ? ` · zaplanowano ${dh(o.planned_days, o.planned_min)}` : ''}`, `${o.count} ${o.count === 1 ? 'wpis' : o.count < 5 ? 'wpisy' : 'wpisów'}`, `w ${year}`, undefined)).join('')}
+    ${e.other.map(o => row(absTone(o.icon, o.code || o.short), o.short || '•', o.name, `${o.used_days || o.used_min ? `wykorzystano ${dh(o.used_days, o.used_min)}` : 'tylko zaplanowane'}${o.planned_days || o.planned_min ? ` · zaplanowano ${dh(o.planned_days, o.planned_min)}` : ''}`, `${o.count} ${o.count === 1 ? 'wpis' : o.count < 5 ? 'wpisy' : 'wpisów'}`, `w ${year}`, undefined)).join('')}
     <p class="small muted lc-note">Zostało = zaległy na początek roku + wymiar − wykorzystano (zaplanowane nie są odejmowane); dni wg przelicznika dnia urlopu. Limity — do potwierdzenia przez kadry.</p>`;
 }
 

diff --git a/public/app.css b/public/app.css
@@ -738,3 +738,25 @@ fieldset.seg { border: 1px solid var(--c-line); border-radius: var(--r-md); padd
 fieldset.seg legend { padding: 0 4px; font-size: var(--fs-sm); color: var(--c-ink-soft); }
 fieldset.seg label.inline { display: inline-flex; align-items: center; gap: 6px; font-weight: 600; }
 .leave-sum { margin: 0; padding: 8px 10px; border-radius: var(--r-md); background: color-mix(in srgb, #1e9e5a 10%, var(--c-surface)); border-left: 4px solid #1e9e5a; }
+
+/* ---- Zgłoś kierownikowi: kafelki z grafiką w kolorach kalendarza ---- */
+.tone-late { --tone: #a0522d; }
+.kind-pick .kind { border-top: 4px solid var(--tone, var(--c-line)); }
+.kind-pick .kind .kind-ico { display: inline-flex; align-items: center; justify-content: center; width: 40px; height: 40px; border-radius: 12px; margin-bottom: 4px;
+  background: linear-gradient(160deg, color-mix(in srgb, var(--tone, #888) 30%, #fff), color-mix(in srgb, var(--tone, #888) 85%, #000)); color: #fff; box-shadow: 0 2px 4px rgba(0,0,0,.18), inset 0 1px 0 rgba(255,255,255,.35); }
+.kind-pick .kind .kind-ico svg { width: 22px !important; height: 22px !important; color: #fff; }
+.kind-pick .kind.active { background: color-mix(in srgb, var(--tone, var(--c-accent)) 12%, var(--c-surface)); border-color: var(--tone, var(--c-accent)); }
+/* rodzaje urlopu — karty w kolorach zestawienia z profilu */
+fieldset.lv-pick { border: 0; padding: 0; margin: 0; display: grid; gap: var(--sp-2); }
+fieldset.lv-pick legend { font-size: var(--fs-sm); color: var(--c-ink-soft); margin-bottom: 4px; }
+.lv-grid { display: grid; grid-template-columns: repeat(auto-fill, minmax(220px, 1fr)); gap: 6px; margin-top: 2px; }
+.lv-opt { display: flex; align-items: center; gap: 8px; padding: 7px 10px; border-radius: var(--r-md); border: 1px solid color-mix(in srgb, var(--tone) 45%, var(--c-line)); border-left: 5px solid var(--tone);
+  background: color-mix(in srgb, var(--tone) 8%, var(--c-surface)); cursor: pointer; }
+.lv-opt input { accent-color: var(--tone); margin: 0; }
+.lv-opt .lc-badge { flex: none; }
+.lv-opt .lv-txt { display: grid; line-height: 1.25; }
+.lv-opt .lv-txt .small { color: var(--c-ink-soft); }
+.lv-opt:has(input:checked) { background: color-mix(in srgb, var(--tone) 20%, var(--c-surface)); box-shadow: 0 0 0 2px var(--tone); }
+.lv-opt.off { opacity: .45; cursor: not-allowed; filter: grayscale(.7); }
+.lv-opt.off .lv-txt .small { color: #a51d14; font-weight: 600; }
+.leave-sum.bad { border-left-color: #c62e25; background: color-mix(in srgb, #c62e25 10%, var(--c-surface)); }

diff --git a/public/sw.js b/public/sw.js
@@ -2,7 +2,7 @@
 // Zasada prywatności: w pamięci telefonu przechowywany jest WYŁĄCZNIE szkielet aplikacji (HTML/CSS/JS/ikony).
 // Odpowiedzi API (/api/*) — dane osobowe, absencje, rozliczenia — nigdy nie są buforowane.
 'use strict';
-const VERSION = 'cnc-team-shell-v30';
+const VERSION = 'cnc-team-shell-v31';
 const SHELL = [
   '/', '/index.html', '/tokens.css', '/app.css', '/icons.js', '/brand.js', '/charts.js', '/ui.js', '/app.js', '/views-people.js', '/views-projects.js',
   '/views-reports.js', '/views-requests.js', '/views-analytics.js', '/views-bundles.js', '/views-tools.js', '/views-plan.js', '/pwa.js', '/manifest.webmanifest', '/favicon.svg', '/icons/icon-192.png', '/icons/icon-512.png',

diff --git a/scripts/screenshots-r24.py b/scripts/screenshots-r24.py
@@ -1,4 +1,4 @@
-"""Zrzuty i klikanie: runda 24 — okienka w kalendarzu, inna praca w planie, prośba o urlop. Użycie: python scripts/screenshots-r24.py http://127.0.0.1:3000 docs/screenshots"""
+"""Zrzuty i klikanie: rundy 24–25. Użycie: python scripts/screenshots-r24.py http://127.0.0.1:3000 docs/screenshots"""
 import sys
 from playwright.sync_api import sync_playwright
 base, out = sys.argv[1], sys.argv[2]
@@ -43,8 +43,31 @@ with sync_playwright() as p:
     if pg.locator(".cal .mc-open").count(): errors.append("programista ma klikalne tematy maszyn")
     shot(pg, "144-tel-plan-programista", "#/plan?d=2026-10-06", full=False)
     if pg.locator(".pm-group.theme-grimme").count() == 0: errors.append("brak okna Grimme u programisty")
+    pg.click("#menuBtn"); pg.wait_for_timeout(300)
+    order = pg.eval_on_selector_all("#rail a[data-nav]", "els => els.map(e => e.dataset.nav)")
+    if order[:6] != ["pracownicy", "kalendarz", "plan", "zglos", "narzedzia", "ustawienia"]: errors.append("kolejność menu: " + str(order))
+    if "Mój profil" not in pg.inner_text("#rail") or "urlopy" in pg.inner_text("#rail a[data-nav=pracownicy]"): errors.append("nazwa profilu")
+    shot(pg, "148-tel-menu-programisty", full=False)
+    pg.keyboard.press("Escape"); pg.goto(base + "/#/kalendarz"); pg.wait_for_timeout(300)
     pg.goto(base + "/#/zglos"); pg.wait_for_selector("[data-kind=urlop]")
-    pg.click("[data-kind=urlop]"); pg.check("input[name=lmode][value=dni]"); pg.fill("input[name=date_from]", "2026-10-12"); pg.fill("input[name=days]", "5"); pg.wait_for_timeout(200)
+    if pg.locator("[data-kind=nieobecnosc]").count(): errors.append("kafelek Nieobecność nadal jest")
+    pg.click("[data-kind=urlop]"); pg.wait_for_timeout(200)
+    if pg.locator(".lv-opt").count() < 15: errors.append("za mało rodzajów urlopu: %d" % pg.locator(".lv-opt").count())
+    shot(pg, "147-tel-zglos-rodzaje", full=True)
+    pg.click(".lv-opt:has(input[value=URLOP_NA_ZADANIE])"); pg.check("input[name=lmode][value=dni]"); pg.fill("input[name=date_from]", "2026-10-12"); pg.fill("input[name=days]", "5"); pg.wait_for_timeout(200)
+    if "Zostało tylko" not in pg.inner_text(".leave-sum"): errors.append("brak blokady ponad limit UŻ: " + pg.inner_text(".leave-sum"))
+    pg.click("#reqF button[type=submit]"); pg.wait_for_timeout(300)
+    if "Zostało tylko" not in pg.inner_text("#reqF .form-error"): errors.append("wysłano ponad limit")
+    # rodzaj tylko w godzinach: wezwanie — tryb godzin, bez dni
+    pg.click(".lv-opt:has(input[value=WEZWANIE])"); pg.wait_for_timeout(200)
+    if pg.locator("input[name=lmode][value=od]").is_visible() or not pg.locator("input[name=lmode][value=godz]").is_checked(): errors.append("wezwanie: tryb godzin nie wymuszony")
+    pg.click(".lv-opt:has(input[value=KREW])"); pg.wait_for_timeout(200)
+    if pg.locator("input[name=lmode][value=godz]").is_visible(): errors.append("krew: godziny dostępne, a kategoria w dniach")
+    # przyszły rok — limity z 2027
+    pg.check("input[name=lmode][value=od]"); pg.fill("input[name=date_from]", "2027-01-11"); pg.wait_for_timeout(900)
+    if "2027" not in pg.inner_text(".lv-year"): errors.append("limity nie przełączyły się na 2027")
+    pg.fill("input[name=date_from]", "2026-10-12"); pg.wait_for_timeout(300); pg.click(".lv-opt:has(input[value=URLOP_WYP])"); pg.check("input[name=lmode][value=dni]"); pg.fill("input[name=days]", "5"); pg.wait_for_timeout(200)
+    pg.click(".lv-opt:has(input[value=URLOP_WYP])"); pg.wait_for_timeout(200)
     shot(pg, "145-tel-zglos-urlop", full=False)
     if "16.10.2026" not in pg.inner_text(".leave-sum"): errors.append("zła data końca: " + pg.inner_text(".leave-sum"))
     pg.click("#reqF button[type=submit]"); pg.wait_for_timeout(900)

diff --git a/docs/TESTS.md b/docs/TESTS.md
@@ -91,6 +91,9 @@ Zrzuty: `docs/screenshots/50…66` (kierownik, pracownik na komputerze i telefon
 ### Runda 24 — okienka w kalendarzu, stały podział planu, prośba o urlop (13.10.2026)
 **66 / 66 zaliczonych** (zmiany w interfejsie). Kalendarz: kliknięcie nieobecności / zdarzenia otwiera okienko ze szczegółami (rodzaj w kolorze, termin, status; pracownik widzi tylko etykietę dopuszczoną przez serwer); kierownik i przełożony — kliknięcie tematu na maszynie otwiera okienko projektu (praca w tym dniu, postęp, otwarte zadania, opis). Plan pracy: Hartford i Grimme zawsze (także u programisty), „Inna praca” jako okno otwierane, z szybkim wpisaniem obowiązku. Zgłoś kierownikowi: „Urlop” — rodzaj, termin od – do albo liczba dni roboczych (weekendy i święta pomijane, początek przesuwany na dzień roboczy). Skrypt `scripts/screenshots-r24.py` sprawdza te ścieżki klikaniem. Przegląd niezależny: 6 uwag, poprawione (zamykanie okienka przy przejściu, długość uwagi, klawiatura, zablokowane zadania, urlop od weekendu, drobne). Zrzuty `140`–`146`.
 
+### Runda 25 — menu programisty, prośba o urlop / zwolnienie (13.10.2026)
+**66 / 66 zaliczonych.** Menu programisty: Mój profil, Kalendarz, Plan pracy, Zgłoś kierownikowi, Narzędzia i oprawki, Moje konto. „Zgłoś”: zamiast „Nieobecność” — „Urlop / zwolnienie” ze wszystkimi rodzajami jako kolorowe karty (kolory jak w profilu), przy każdym ile zostało; wykorzystane wyszarzone i niedostępne, ponad pozostałą pulę nie da się wysłać; dni albo godziny zgodnie z jednostką rodzaju (SW / art. 188 — jednostka ustalona po pierwszym użyciu), limity na rok z daty początku. Kafelki z grafiką w kolorach kalendarza; spóźnienie — osobny kolor. Przegląd niezależny: 6 uwag, poprawione. Skrypt `scripts/screenshots-r24.py` sprawdza to klikaniem (UŻ ponad limit, wezwanie tylko w godzinach, krew tylko w dniach, limity 2027). Zrzuty `145`, `147`, `148`.
+
 ## Pokrycie wymaganych scenariuszy
 
 | Wymagany scenariusz | Test (plik → nazwa) |
